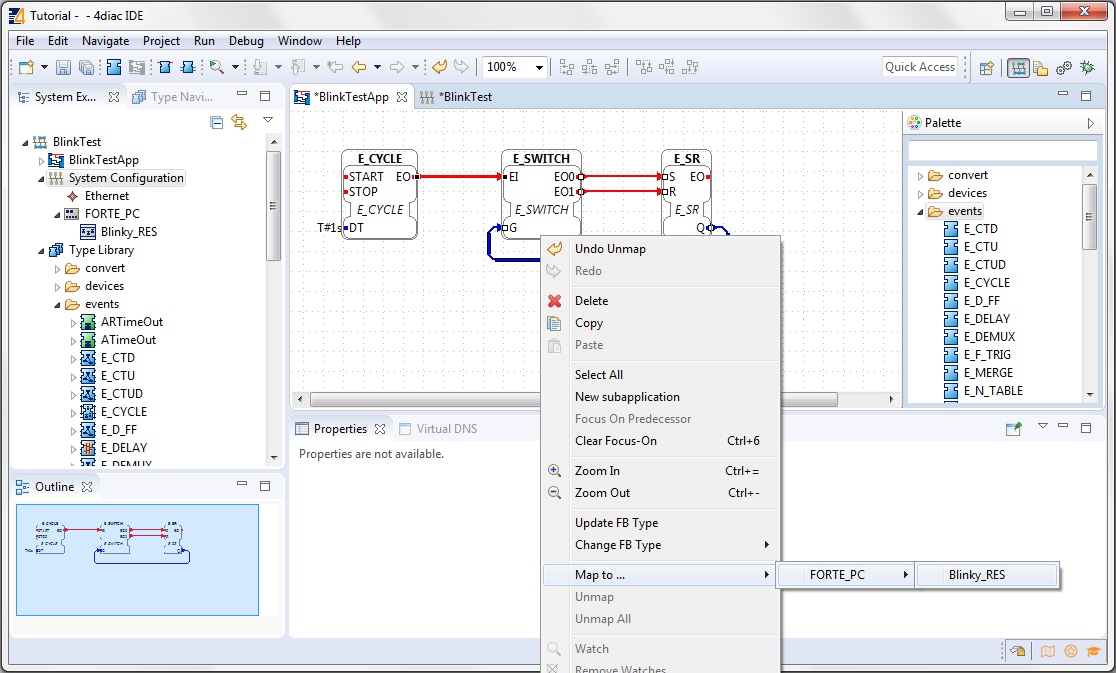
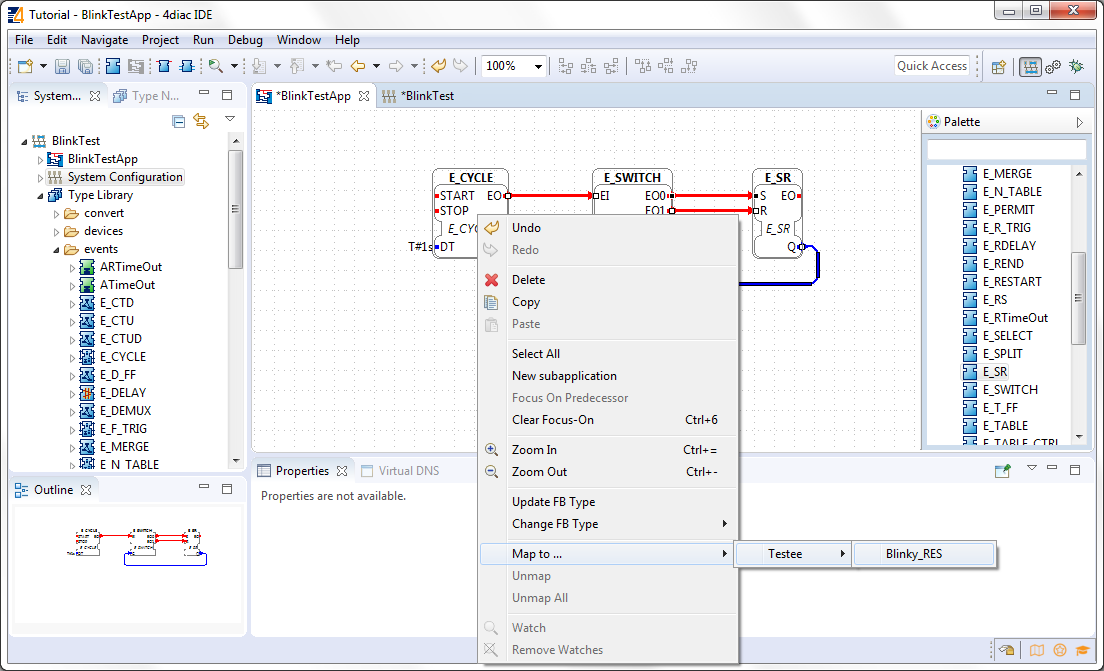
[539344] Update of tutorial step 1
Began to renewed images with fixed and correct title bar.
Added a section with an overview of the editors.

Bug: https://bugs.eclipse.org/bugs/show_bug.cgi?id=539344

Changed region(s): [[0.0, 0.0, 1.0, 1.0], [0.7391, 0.3875, 0.7699, 0.4173]]

diff --git a/plugins/org.eclipse.fordiac.ide/html/4diacIDE/use4diacLocally.html b/plugins/org.eclipse.fordiac.ide/html/4diacIDE/use4diacLocally.html
@@ -117,7 +117,8 @@
     <p>Check that the Profile in the Properties tab is set to HOLOBLOC.</p>
     <p>The color is automatically generated for better orientation in the system. When several devices or segments are in use, you can see at a glance where the FB belongs to. If you like to change the color, click on the device or segment. In the property view on the bottom of the screen you find the tab Apperance. Here you can choose a color you like best.</p>
     
-    <p>The resource is automatically generated for your convenience. EMB_RES stands for Embedded Resource. For this tutorial it is best to change it in the property view to Blinky_RES for a better understanding. You can also double-click on the name.</p>
+    <p>For this tutorial we give the device the name <i>testee</i>. Device names help us to distinguish the different devices from each other. Names can be changes in the property view or by double-clicking on the name. 
+    <br/>The <b>resource</b> is automatically generated for your convenience. EMB_RES stands for Embedded Resource. We named it <i>Blinky_RES</i>.</p>
        <img src="./img/changeResourceName.png" alt="changing the name of the Resource" />
     
     <p>Device and Resource parameters can either be specified directly at each Device/Resource or via the Properties View. The <span class="view4diac">Properties View</span> shows the parameters of a IEC 61499 Device/Resource (if it is selected either in the <span class="view4diac">System Configuration Editor</span> or in the <span class="view4diac">System Manager View</span>). The most important parameters are the IP address and the port of the device management interface as they are required for the communication between the engineering tool and the Devices (e.g. Download of IEC 61499 Applications).</p>
@@ -147,13 +148,62 @@
 
     <h2 id="configureResource">Configure the Resource</h2>
 
-    <p>You can open the <b>Resource Editor</b> by double clicking the Resource in the System Configuration, or in the tree in the System Explorer on the left.</p>
+    <p>You can open the <b>Resource Editor</b> by double clicking the Resource (<i>Blinky_RES</i>) in the System Configuration, or in the tree in the System Explorer on the left.</p>
 
     <p>There you can find a START function block in white. This is the default starter fuction block of the EMB_RES. This will trigger a COLD event when starting. The STOP is triggered when the PLC is set to a STOP state, and the WARM when the PLC changes from a STOP state back to a RUN state. Connect both COLD and WARM to E_CYCLE.START.</p>
      
 	   <img src="./img/resourceComplete.png" alt="Resource completely connected"/>
 
-     <p>You also see the FBs that were previosly mapped. You can add more FBs directly here and they will be already mapped to the resource, or you can unmap the FBs.</p>
+     <p>You also see the FBs that were previously mapped. You can add more FBs directly here and they will be already mapped to the resource, or you can unmap the FBs.</p>
+
+<!----------------------------------------------------------------------------------------------------------------->
+
+    <h2 id="overviewEditors">Overview of the editors</h2>
+    
+    <p>Before we test our application, let's briefly summarize the elements we've worked with.</p>
+
+<table>
+    <thead>
+        <tr>
+          <th>Element</th>
+          <th>Creation</th>
+          <th>Editation</th>
+          <th>Tutorial Name</th>
+        </tr>
+    </thead>
+    <tbody>
+        <tr>
+          <th>System</th>
+          <td>new System</td>
+          <td>only children can be edited</td>
+          <td>BlinkTest</td>
+        </tr>
+        <tr>
+          <th>Application</th>
+          <td>first ist automatically generated, further more via menu</td>
+          <td>Application Editor</td>
+          <td>BlinkTestApp</td>
+        </tr>
+        <tr>
+          <th>System Configuration</th>
+          <td>automatically generated, only one per system</td>
+          <td>System Configuration Editor</td>
+          <td></td>
+        </tr>
+        <tr>
+          <th>Device</th>
+          <td>System Configuration Editor</td>
+          <td>System Configuration Editor</td>
+          <td>Testee</td>
+        </tr>
+        <tr>
+          <th>Resource</th>
+          <td>System Configuration Editor</td>
+          <td>Resource Editor</td>
+          <td>Blinky_RES</td>
+        </tr>
+    </tbody>
+</table>
 
 <!----------------------------------------------------------------------------------------------------------------->
 
